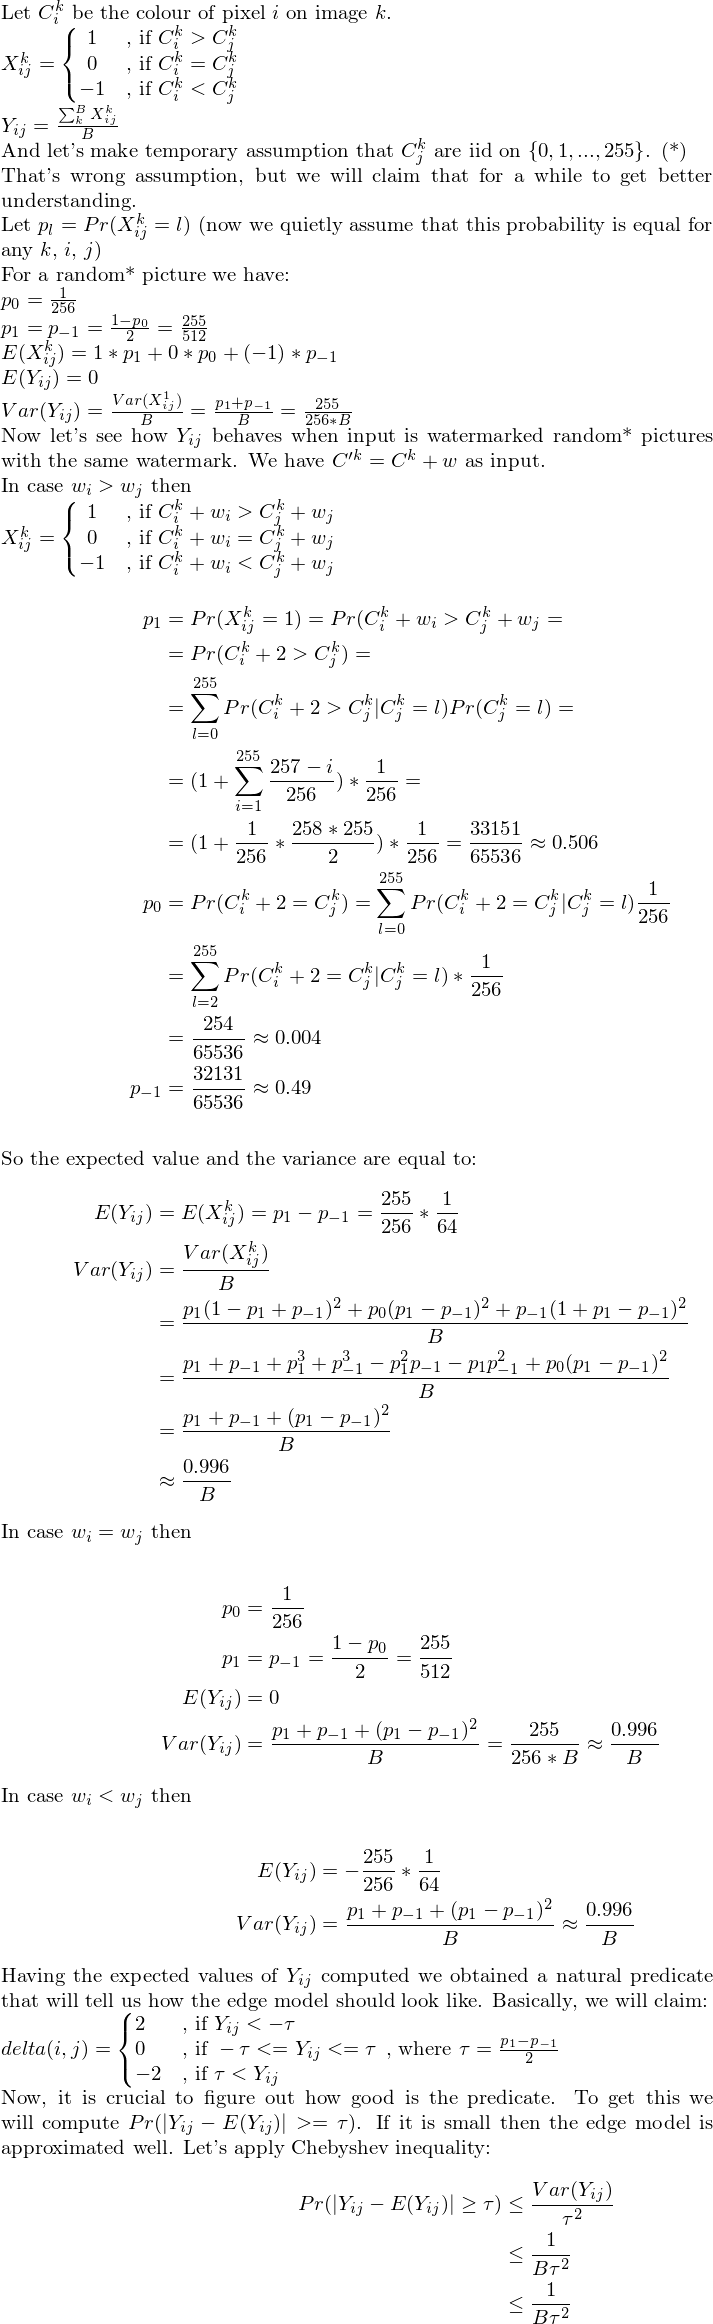
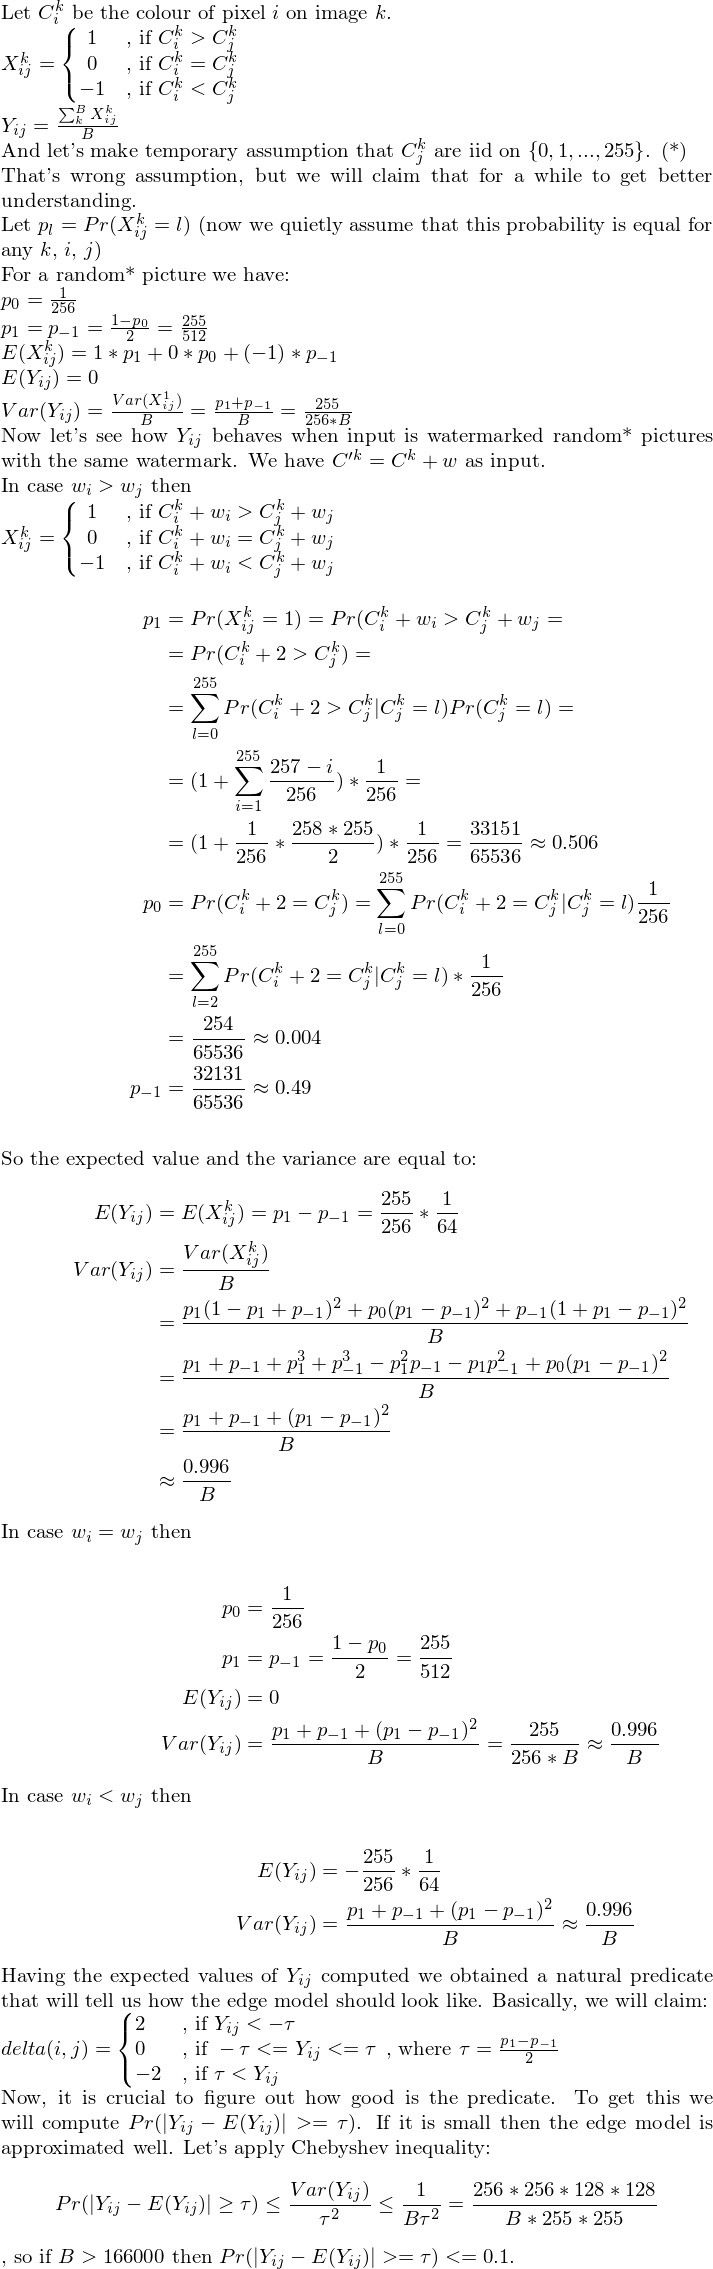
Finish the analysis with the Chebyshev inequality

diff --git a/latex/analysis.tex b/latex/analysis.tex
@@ -75,9 +75,11 @@ $delta(i, j) = \left\{
 Now, it is crucial to figure out how good is the predicate. To get this we will
 compute $Pr(|Y_{ij} - E(Y_{ij})| >= \tau)$. If it is small then the edge model
 is approximated well. Let's apply Chebyshev inequality:
-\begin{align*}
-Pr(|Y_{ij} - E(Y_{ij})| \geq \tau) &\leq \frac{Var(Y_{ij})}{\tau^2}\\
-  & \leq \frac{1}{B\tau^2}\\
-  & \leq \frac{1}{B\tau^2}
-\end{align*}
+$$
+Pr(|Y_{ij} - E(Y_{ij})| \geq \tau)
+  \leq \frac{Var(Y_{ij})}{\tau^2}
+  \leq \frac{1}{B\tau^2}
+  = \frac{256*256*128*128}{B*255*255}
+$$
+, so if $B > 166000$ then $Pr(|Y_{ij} - E(Y_{ij})| >= \tau) <= 0.1$.
 \end{document}
